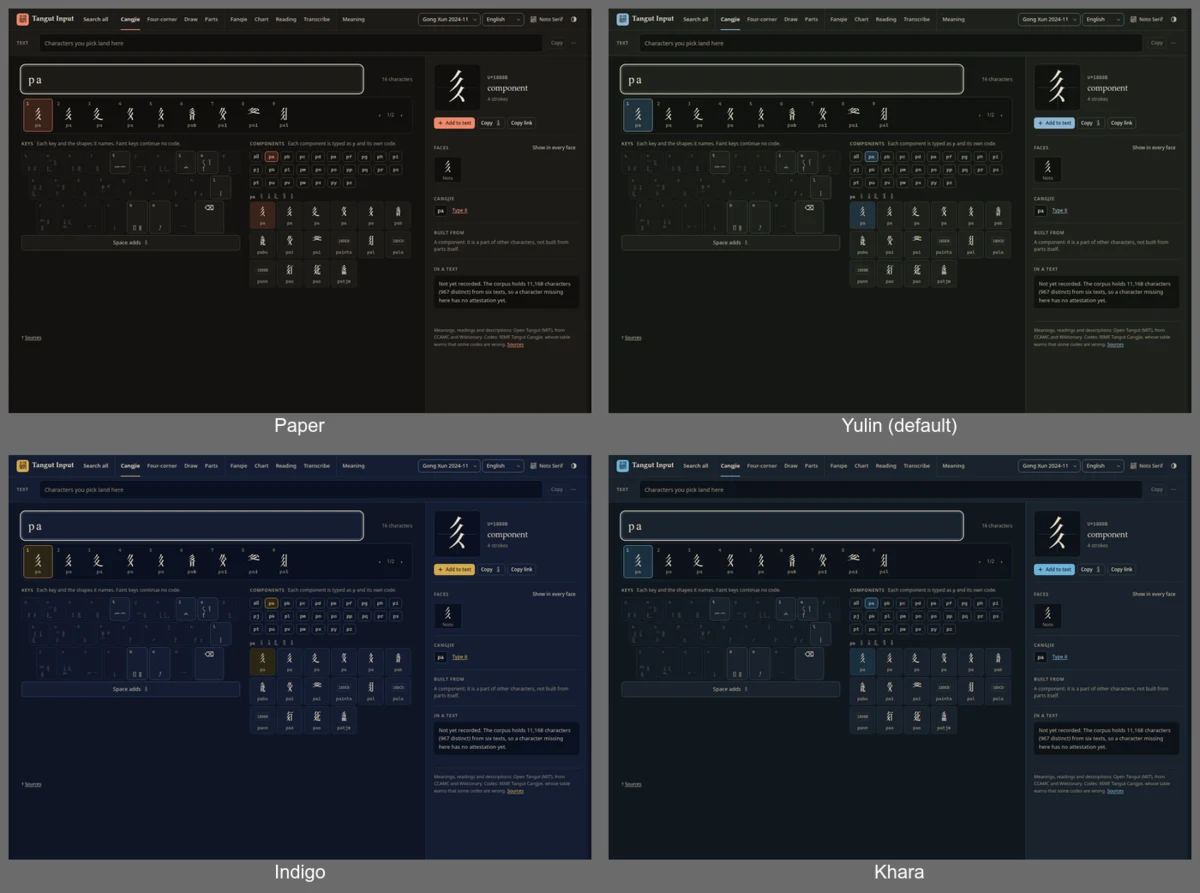
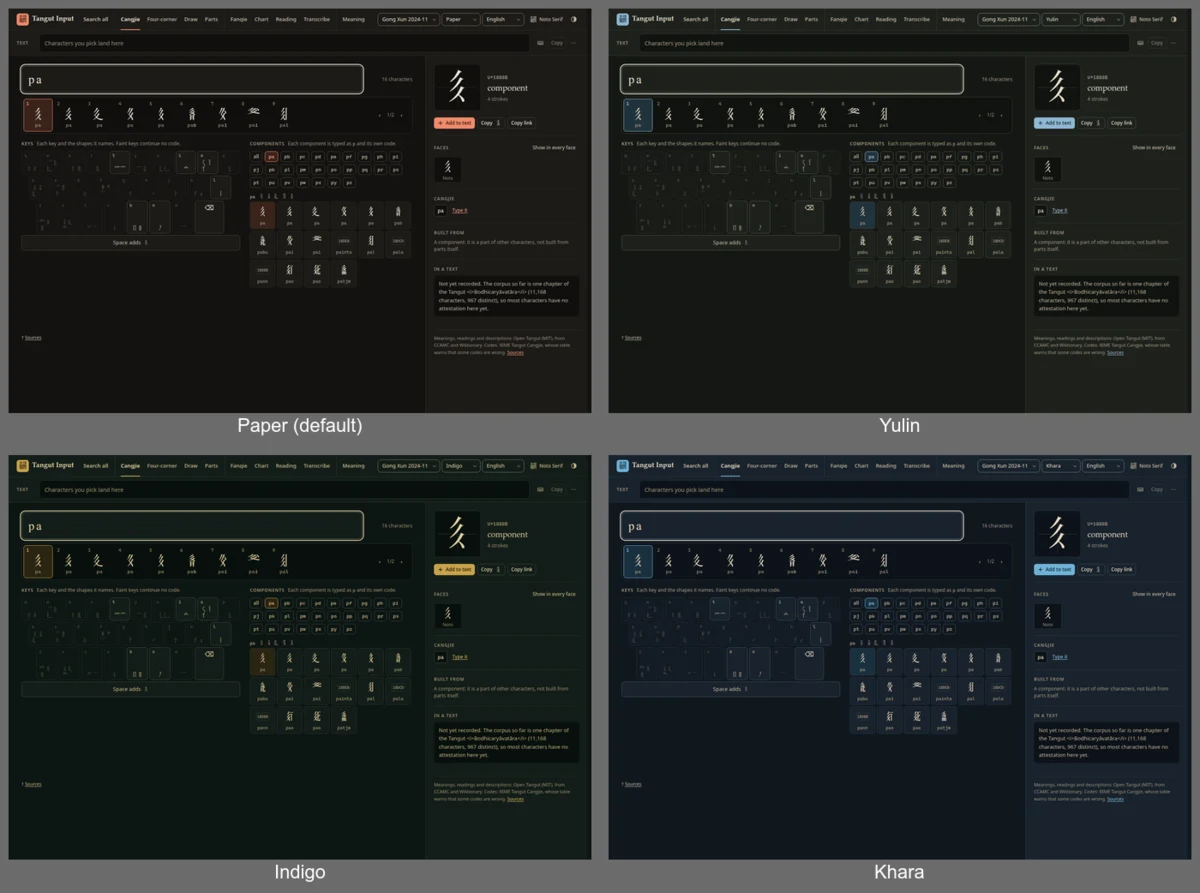
fix(design): match the indigo ground to the gilt manuscript

diff --git a/design/palettes.css b/design/palettes.css
@@ -48,38 +48,39 @@
 /* ---------- Indigo: the golden manuscript ---------- */
 
 /* Khara-Khoto manuscript XT-180, Institute of Oriental Manuscripts, RAS: indigo-dyed paper,
-   gold ink, one surviving example of such a book from Kozlov's excavation. The dark scheme is
-   the object; the light scheme takes the cool paper and the bronze of the ink.
+   gold ink, one surviving example of such a book from Kozlov's excavation. Aged indigo reads
+   as a green-black ground; the light scheme keeps the faint green of that paper and the bronze
+   of the ink.
    Reference: Alexander Zorin, "On a 'Golden' Khara-Khoto Manuscript", Revue d'Etudes Tibétaines
    56 (2020), 161–169. */
 :root[data-palette='indigo'] {
-  --p-canvas: light-dark(#e9e9e6, #0e1526);
-  --p-surface: light-dark(#f7f6f1, #141d33);
-  --p-sunken: light-dark(#dfdfdc, #0a1020);
-  --p-hover: light-dark(#efefeb, #1b2742);
-  --p-active: light-dark(#e4e4e0, #23324f);
-  --p-ink: light-dark(#151b29, #e8dfc7);
-  --p-soft: light-dark(#3d4657, #c5bda9);
-  --p-muted: light-dark(#596170, #948d79);
-  --p-border: light-dark(#d3d4d7, #26324b);
-  --p-border-strong: light-dark(#b3b6bd, #3a4866);
-  --p-control: light-dark(#7a8090, #6c7894);
-  --p-control-hover: light-dark(#606776, #8a96b1);
-  --p-accent: light-dark(#8a6417, #d4aa4e);
-  --p-accent-hover: light-dark(#6f4f10, #e6c063);
-  --p-accent-active: light-dark(#5a3f0b, #f0d27c);
-  --p-accent-soft: light-dark(#efe5cc, #2b2514);
-  --p-accent-ink: light-dark(#6f4f10, #e6c063);
-  --p-on-accent: light-dark(#fffaef, #1a1408);
-  --p-danger: light-dark(#a13c2b, #e08a72);
-  --p-danger-hover: light-dark(#863021, #f0a28c);
-  --p-danger-soft: light-dark(#f3e2de, #3b211b);
+  --p-canvas: light-dark(#e8eae4, #0c1513);
+  --p-surface: light-dark(#f6f7f1, #121d18);
+  --p-sunken: light-dark(#dfe3da, #08100d);
+  --p-hover: light-dark(#eff1e9, #18241e);
+  --p-active: light-dark(#e4e7dd, #203028);
+  --p-ink: light-dark(#151d19, #e3d3a4);
+  --p-soft: light-dark(#3d4a42, #c3b585);
+  --p-muted: light-dark(#59675c, #9d9070);
+  --p-border: light-dark(#d3d8ce, #26332a);
+  --p-border-strong: light-dark(#b0b9ab, #3c4a3c);
+  --p-control: light-dark(#77857a, #6f7d69);
+  --p-control-hover: light-dark(#5e6c61, #8d9a86);
+  --p-accent: light-dark(#7d5f1c, #c9a24a);
+  --p-accent-hover: light-dark(#654b12, #ddb75f);
+  --p-accent-active: light-dark(#513b0b, #e8c777);
+  --p-accent-soft: light-dark(#efe7cd, #2a2412);
+  --p-accent-ink: light-dark(#654b12, #e0bd68);
+  --p-on-accent: light-dark(#fffaef, #141007);
+  --p-danger: light-dark(#a13c2b, #d97a5a);
+  --p-danger-hover: light-dark(#863021, #ea9178);
+  --p-danger-soft: light-dark(#f3e2de, #38211b);
   --p-on-danger: light-dark(#fdf5ef, #2a0f09);
-  --p-inverse-surface: light-dark(#151b29, #e8dfc7);
-  --p-inverse-ink: light-dark(#f7f6f1, #0e1526);
-  --p-selection: light-dark(#e6ddc6, #3a3016);
-  --p-scrollbar: light-dark(#b3b6bd, #3a4866);
-  --p-scrollbar-hover: light-dark(#7a8090, #6c7894);
+  --p-inverse-surface: light-dark(#151d19, #e3d3a4);
+  --p-inverse-ink: light-dark(#f7f6f1, #0c1513);
+  --p-selection: light-dark(#e4e8d9, #1e3327);
+  --p-scrollbar: light-dark(#b0b9ab, #3c4a3c);
+  --p-scrollbar-hover: light-dark(#77857a, #6f7d69);
 }
 
 /* ---------- Khara: the ruined city ---------- */
